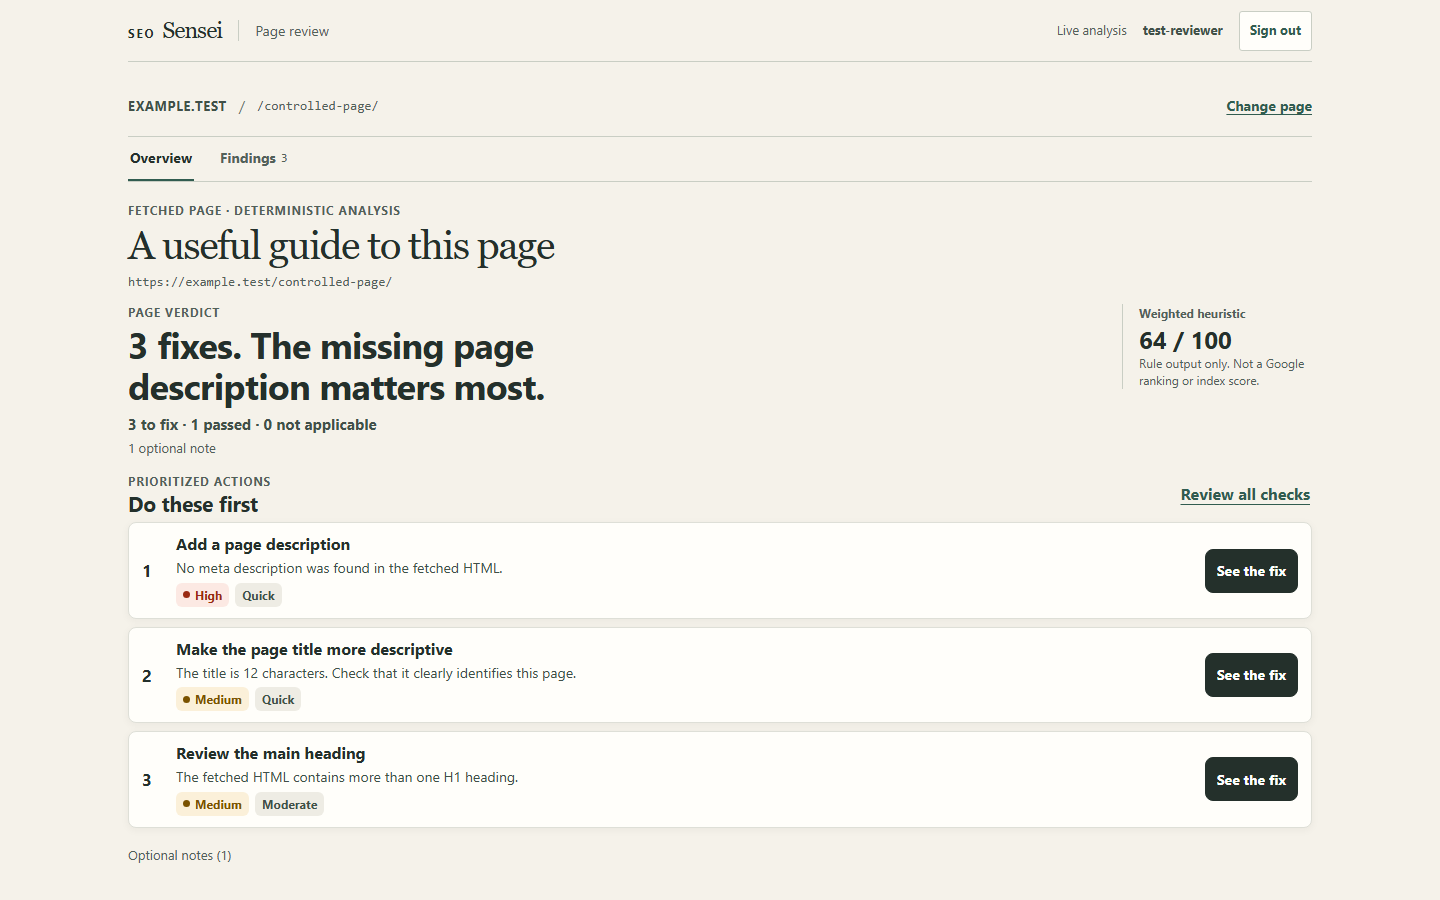
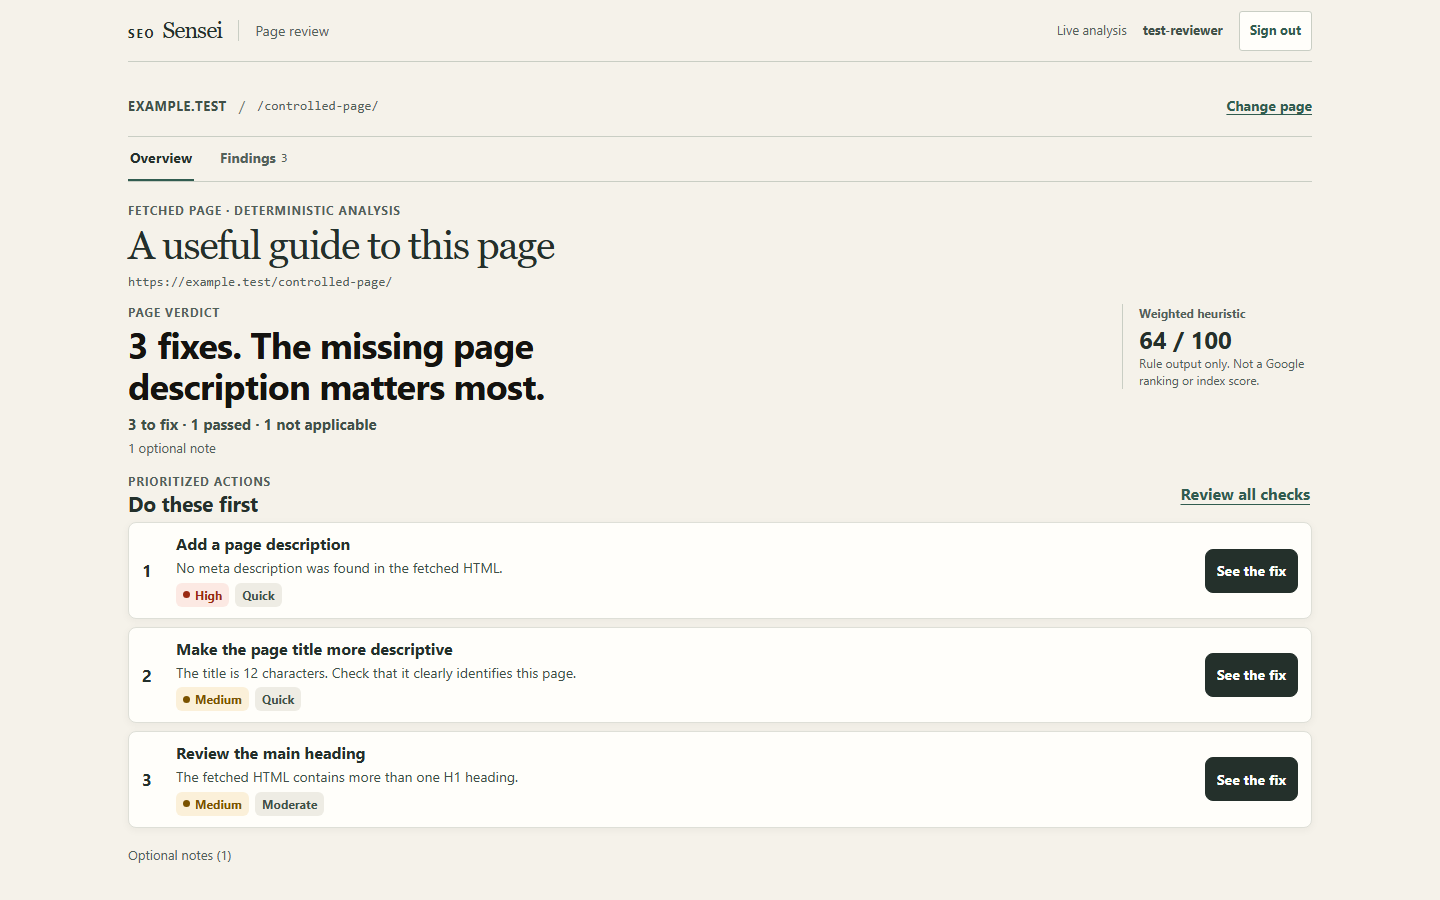
Correct S1-B finding priorities and verdict color

Changed region(s): [[0.0938, 0.3733, 0.375, 0.4667]]

diff --git a/web/e2e/app.spec.ts b/web/e2e/app.spec.ts
@@ -11,7 +11,7 @@ async function installAnonymousSession(page: Page) {
   });
 }
 
-type ReportScenario = "normal" | "high" | "noindex" | "clear";
+type ReportScenario = "normal" | "high" | "noindex" | "two" | "clear";
 
 function resolvedAnalysis(scenario: ReportScenario) {
   const details = scenario === "noindex"
@@ -26,7 +26,11 @@ function resolvedAnalysis(scenario: ReportScenario) {
         ["title", "metadata", "warning", "medium", "quick", "Make the page title more descriptive", "The title is 12 characters. Check that it clearly identifies this page.", "title"],
         ["h1_structure", "headings_content_structure", "warning", "medium", "moderate", "Review the main heading", "The fetched HTML contains more than one H1 heading.", "heading"],
       ]
-      : scenario === "clear" ? [] : [
+      : scenario === "two" ? [
+        ["title", "metadata", "warning", "medium", "quick", "Make the page title more descriptive", "The title is 12 characters. Check that it clearly identifies this page.", "title"],
+        ["internal_links", "links", "warning", "low", "moderate", "Add useful links to related pages", "No internal links were detected in the fetched HTML.", "links"],
+      ]
+        : scenario === "clear" ? [] : [
         ["title", "metadata", "warning", "medium", "quick", "Make the page title more descriptive", "The title is 12 characters. Check that it clearly identifies this page.", "title"],
         ["meta_description", "metadata", "warning", "medium", "quick", "Make the page description more useful", "The description is 24 characters. Check that it accurately summarizes the page.", "description"],
         ["internal_links", "links", "warning", "low", "moderate", "Add useful links to related pages", "No internal links were detected in the fetched HTML.", "links"],
@@ -51,6 +55,13 @@ function resolvedAnalysis(scenario: ReportScenario) {
     evidence: { observed: "The test response returned an HTML document.", value: 200 }, recommendation: "No action is required.",
     fix_snippet: null, snippet_requires_review: false, is_actionable: false, optional_note: null, exclusion_reason: null,
   });
+  checks.push({
+    id: "link_relationships", category: "links", status: "not_applicable", impact: null, effort: null,
+    finding_title: null, finding_reason: null, anatomy_part: null, title: "Link relationship details", points: 0, max_points: 1,
+    evidence: { observed: "No relevant link relationships were available.", value: null },
+    recommendation: "No action is required.", fix_snippet: null, snippet_requires_review: false,
+    is_actionable: false, optional_note: null, exclusion_reason: null,
+  });
   const impactCounts = { blocking: 0, high: 0, medium: 0, low: 0 };
   for (const check of checks.filter((item) => item.is_actionable)) impactCounts[check.impact as keyof typeof impactCounts] += 1;
   const statusCounts = { pass: 0, warning: 0, fail: 0, not_applicable: 0 };
@@ -64,7 +75,7 @@ function resolvedAnalysis(scenario: ReportScenario) {
       status_code: 200, content_type: "text/html", content_length: 1200, bytes_read: 1200,
       redirect_count: 0, elapsed_time: 0.2, x_robots_tag: null,
     },
-    deterministic_score: { version: "1.1", overall_score: scenario === "normal" ? 86 : scenario === "high" ? 64 : 91,
+    deterministic_score: { version: "1.1", overall_score: scenario === "normal" ? 86 : scenario === "high" ? 64 : scenario === "two" ? 79 : 91,
       points_earned: 86, max_points: 100, categories: [] },
     checks,
     metadata: { title: "A useful guide to this page" },
@@ -81,6 +92,7 @@ function resolvedAnalysis(scenario: ReportScenario) {
       prioritized_check_ids: prioritizedIds,
       verdict: scenario === "noindex" ? "This page tells search engines not to index it."
         : scenario === "high" ? "3 fixes. The missing page description matters most."
+          : scenario === "two" ? "2 small fixes."
           : scenario === "clear" ? "Nothing to fix in these checks." : "3 small fixes.",
       exclusions: [{ check_id: "json_ld", status: "warning", reason: "Missing optional JSON-LD is not a confirmed defect." }],
     },
@@ -278,13 +290,14 @@ test("renders v1.1 verdicts, shared counts, priority order, and severity colors 
     await page.getByRole("button", { name: "Analyze page" }).click();
     const expected = next === "noindex" ? "This page tells search engines not to index it."
       : next === "high" ? "3 fixes. The missing page description matters most."
+        : next === "two" ? "2 small fixes."
         : next === "clear" ? "Nothing to fix in these checks." : "3 small fixes.";
     await expect(page.getByTestId("report-verdict")).toHaveText(expected);
   }
 
   async function assertColorPolicy() {
     const verdict = page.getByTestId("report-verdict");
-    expect(await verdict.evaluate((element) => getComputedStyle(element).color)).toBe("rgb(36, 48, 43)");
+    expect(await verdict.evaluate((element) => getComputedStyle(element).color)).toBe("rgb(20, 19, 15)");
     const offenders = await page.locator("body *").evaluateAll((elements) => {
       const isVermilion = (value: string) => {
         const match = value.match(/rgba?\((\d+),\s*(\d+),\s*(\d+)/);
@@ -326,6 +339,9 @@ test("renders v1.1 verdicts, shared counts, priority order, and severity colors 
     await openScenario(next);
     await assertColorPolicy();
     expect(await page.locator(".nav-count").innerText()).toBe("3");
+    if (next === "normal") {
+      await expect(page.getByTestId("summary-count-line")).toHaveText("3 to fix · 1 passed · 1 not applicable");
+    }
     const priorityNumbers = await page.locator("[data-priority-card] .priority-number").allTextContents();
     expect(priorityNumbers).toEqual(["1", "2", "3"]);
     expect(await page.locator("[data-priority-card]").count()).toBe(3);
@@ -378,7 +394,7 @@ test("renders v1.1 verdicts, shared counts, priority order, and severity colors 
   }
 
   await page.getByRole("button", { name: "Review all checks" }).click();
-  await expect(page.getByTestId("findings-count-line")).toHaveText("3 to fix · 1 passed · 0 not applicable");
+  await expect(page.getByTestId("findings-count-line")).toHaveText("3 to fix · 1 passed · 1 not applicable");
   expect(await page.locator(".nav-count").innerText()).toBe("3");
   await expect(page.getByRole("link", { name: /Needs review/ })).toBeVisible();
   const blockingBadge = page.locator(".finding-item .impact-blocking").first();
@@ -394,11 +410,25 @@ test("renders v1.1 verdicts, shared counts, priority order, and severity colors 
   expect(await page.locator(".report-nav a").allTextContents()).toEqual(["Overview", "Findings 3"]);
 
   await page.getByRole("button", { name: "Change page" }).click();
+  scenario = "two";
+  await page.getByLabel("Page address").fill("https://example.test/two/");
+  await page.getByRole("button", { name: "Analyze page" }).click();
+  await expect(page.getByTestId("report-verdict")).toHaveText("2 small fixes.");
+  await expect(page.getByTestId("summary-count-line")).toHaveText("2 to fix · 1 passed · 1 not applicable");
+  expect(await page.locator(".nav-count").innerText()).toBe("2");
+  await page.getByRole("button", { name: "Review all checks" }).click();
+  await expect(page.getByTestId("findings-count-line")).toHaveText("2 to fix · 1 passed · 1 not applicable");
+  expect(await page.locator(".nav-count").innerText()).toBe("2");
+  await expect(page.locator(".findings-optional-notes summary")).toHaveText("Optional notes (1)");
+  expect(await page.locator("[data-finding-id='json_ld']").count()).toBe(0);
+
+  await page.getByRole("button", { name: "Change page" }).click();
   scenario = "clear";
   await page.getByLabel("Page address").fill("https://example.test/clear/");
   await page.getByRole("button", { name: "Analyze page" }).click();
   await expect(page.getByTestId("report-verdict")).toHaveText("Nothing to fix in these checks.");
-  await expect(page.getByTestId("summary-count-line")).toHaveText("0 to fix · 1 passed · 0 not applicable");
+  await assertColorPolicy();
+  await expect(page.getByTestId("summary-count-line")).toHaveText("0 to fix · 1 passed · 1 not applicable");
   expect(await page.locator(".nav-count").innerText()).toBe("0");
   expect(await page.locator("[data-priority-card]").count()).toBe(0);
   expect(externalRequests).toEqual([]);

diff --git a/web/src/styles/layout.css b/web/src/styles/layout.css
@@ -123,7 +123,7 @@
 .summary-identity { margin-bottom: 12px; }
 .summary-verdict-row { display: flex; align-items: start; justify-content: space-between; gap: 24px; }
 .summary-verdict-copy { min-width: 0; }
-.summary-verdict { max-width: 28ch; margin: 3px 0 0; color: var(--ink); font: 700 clamp(28px, 3vw, 36px)/1.12 var(--sans); letter-spacing: -.02em; }
+.summary-verdict { max-width: 28ch; margin: 3px 0 0; color: #14130F; font: 700 clamp(28px, 3vw, 36px)/1.12 var(--sans); letter-spacing: -.02em; }
 .score-note { flex: none; width: 190px; padding-left: var(--space-4); border-left: 1px solid var(--rule); }
 .score-label { display: block; color: var(--muted); font-size: 12px; font-weight: 700; }
 .score-value { display: block; margin-top: 2px; color: var(--ink); font: 700 24px/1.2 var(--sans); }

diff --git a/tests/test_seo_scoring_v11.py b/tests/test_seo_scoring_v11.py
@@ -2,18 +2,23 @@ from __future__ import annotations
 
 from pathlib import Path
 
+from backend.app.config import Settings
 from backend.app.seo.rules import CATEGORY_WEIGHTS, CHECK_POLICIES, Effort, Impact
 from backend.app.seo.engine import analyze_html
 from backend.app.seo.models import CheckStatus, FetchMetadata, SEOAnalysis
 
 
-def analyze(html: str, redirect_count: int = 0):
-    url = "https://example.test/page/"
+def analyze(
+    html: str,
+    redirect_count: int = 0,
+    status_code: int = 200,
+    url: str = "https://example.test/page/",
+):
     size = len(html.encode("utf-8"))
     fetch = FetchMetadata(
         requested_url=url,
         final_url=url,
-        status_code=200,
+        status_code=status_code,
         content_type="text/html",
         content_length=size,
         bytes_read=size,
@@ -362,3 +367,118 @@ def test_observed_evidence_uses_readable_count_grammar() -> None:
         "Images with non-empty alt text: 1/1; empty alt attributes: 0; missing alt attributes: 0."
     )
     assert by_id["json_ld"].finding_reason == "The fetched HTML contains 1 JSON-LD block could not be parsed."
+
+
+def test_final_non_2xx_http_status_is_blocking_without_changing_score_status() -> None:
+    for status_code in (200, 204):
+        result = analyze(all_pass_html(), status_code=status_code)
+        http_check = check(result, "http_status")
+
+        assert http_check.status == CheckStatus.PASS
+        assert http_check.is_actionable is False
+        assert http_check.impact is None
+        assert http_check.points == 5
+
+    for status_code in (301, 302, 307, 404, 500):
+        result = analyze(all_pass_html(), status_code=status_code)
+        http_check = check(result, "http_status")
+
+        assert http_check.status == (CheckStatus.WARNING if status_code < 400 else CheckStatus.FAIL)
+        assert http_check.is_actionable is True
+        assert http_check.impact == Impact.BLOCKING
+        assert http_check.points == (3 if status_code < 400 else 0)
+        assert result.findings_summary.verdict == "The page returned an unsuccessful HTTP response."
+
+    redirected_success = analyze(all_pass_html(), redirect_count=1, status_code=200)
+    assert check(redirected_success, "http_status").is_actionable is False
+    assert check(redirected_success, "redirects").impact == Impact.LOW
+    assert all(item.impact != Impact.BLOCKING for item in redirected_success.checks)
+
+
+def test_redirect_priority_uses_count_without_changing_effort_or_http_status() -> None:
+    counts = sorted({0, 1, 2, 3, Settings().max_redirects, 10})
+    for redirect_count in counts:
+        result = analyze(all_pass_html(), redirect_count=redirect_count)
+        redirect_check = check(result, "redirects")
+
+        if redirect_count == 0:
+            assert redirect_check.status == CheckStatus.PASS
+            assert redirect_check.is_actionable is False
+            assert redirect_check.impact is None
+        else:
+            expected_impact = Impact.HIGH if redirect_count >= 3 else Impact.LOW
+            assert redirect_check.status == CheckStatus.WARNING
+            assert redirect_check.is_actionable is True
+            assert redirect_check.impact == expected_impact
+            assert redirect_check.effort == Effort.QUICK
+        assert check(result, "http_status").is_actionable is False
+
+    long_chain = analyze(all_pass_html(), redirect_count=3)
+    assert long_chain.findings_summary.prioritized_check_ids[0] == "redirects"
+    assert long_chain.findings_summary.verdict == "1 fix. The long redirect chain matters most."
+
+
+def test_visible_word_boundaries_set_review_priority_but_not_score_points() -> None:
+    expected = {
+        0: (CheckStatus.FAIL, Impact.HIGH, 0),
+        1: (CheckStatus.WARNING, Impact.HIGH, 3),
+        99: (CheckStatus.WARNING, Impact.HIGH, 3),
+        100: (CheckStatus.WARNING, Impact.MEDIUM, 4),
+        299: (CheckStatus.WARNING, Impact.MEDIUM, 4),
+        300: (CheckStatus.PASS, None, 5),
+    }
+
+    for word_count, (status, impact, points) in expected.items():
+        words = " ".join("word" for _ in range(word_count))
+        result = analyze(f"<html><body><p>{words}</p></body></html>")
+        text_check = check(result, "visible_text")
+
+        assert result.lexical_signals.visible_word_count == word_count
+        assert text_check.status == status
+        assert text_check.points == points
+        assert text_check.impact == impact
+        assert text_check.is_actionable is (word_count < 300)
+        if 0 < word_count < 300:
+            assert "may be appropriate for its purpose" in text_check.finding_reason
+            assert "rank" not in text_check.finding_reason.lower()
+
+
+def test_priority_order_uses_impact_effort_and_original_check_order() -> None:
+    html = (
+        '<html><head><meta name="robots" content="noindex"><title>T</title>'
+        "</head><body><h2>Section</h2><p>word</p>"
+        '<a href="/related"></a><img src="/chart.svg"></body></html>'
+    )
+    result = analyze(html, redirect_count=1, url="http://example.test/page/")
+
+    assert result.findings_summary.prioritized_check_ids == [
+        "robots_directives",
+        "meta_description",
+        "h1_structure",
+        "https",
+        "visible_text",
+        "title",
+        "anchor_text",
+        "html_lang",
+        "viewport",
+        "canonical",
+        "image_alt",
+        "redirects",
+        "open_graph",
+        "twitter_metadata",
+        "charset",
+    ]
+
+
+def test_multiple_blocking_findings_select_one_stable_plain_verdict() -> None:
+    html = all_pass_html().replace("<head>", '<head><meta name="robots" content="noindex">')
+    first = analyze(html, status_code=404)
+    second = analyze(html, status_code=404)
+
+    assert first.findings_summary.prioritized_check_ids[:3] == [
+        "robots_directives",
+        "http_status",
+        "retrieval_success",
+    ]
+    assert first.findings_summary.verdict == "This page tells search engines not to index it."
+    assert second.findings_summary.verdict == first.findings_summary.verdict

diff --git a/backend/app/seo/rules.py b/backend/app/seo/rules.py
@@ -156,22 +156,14 @@ CHECK_POLICIES: dict[str, FindingPolicy] = {
         "http_status",
         (
             _action(
-                (_FAIL,),
+                (_PROBLEM,),
                 "Check the page response",
-                "The page returned an unsuccessful HTTP response. Review the response and intended destination.",
+                "The final response was HTTP {status_code}, not a 2xx response. Review the response and intended destination.",
                 Impact.BLOCKING,
                 Effort.MODERATE,
                 AnatomyPart.TECHNICAL,
                 verdict_focus="The unsuccessful page response",
                 blocking_verdict="The page returned an unsuccessful HTTP response.",
-            ),
-            _action(
-                (_WARNING,),
-                "Review the redirect response",
-                "The final response was not a 2xx response. Confirm that the URL reaches the intended page.",
-                Impact.MEDIUM,
-                Effort.MODERATE,
-                AnatomyPart.TECHNICAL,
             ),
             _IDLE,
         ),
@@ -211,9 +203,18 @@ CHECK_POLICIES: dict[str, FindingPolicy] = {
         "redirects",
         (
             _action(
+                (_p("redirect_count", "gt", 2), _WARNING),
+                "Shorten the redirect chain",
+                "A longer redirect path was observed before the final page response. Where practical, point links directly to the final URL.",
+                Impact.HIGH,
+                Effort.QUICK,
+                AnatomyPart.TECHNICAL,
+                verdict_focus="The long redirect chain",
+            ),
+            _action(
                 (_WARNING,),
                 "Review the redirect path",
-                "A redirect was observed before the page response. Point links directly to the intended final URL where practical.",
+                "The URL passed through a redirect before the final response. Where practical, point links directly to the final URL.",
                 Impact.LOW,
                 Effort.QUICK,
                 AnatomyPart.TECHNICAL,
@@ -410,9 +411,18 @@ CHECK_POLICIES: dict[str, FindingPolicy] = {
                 verdict_focus="The page has no visible text",
             ),
             _action(
+                (_p("visible_word_count", "gt", 0), _p("visible_word_count", "lt", VISIBLE_WORD_WARNING), _WARNING),
+                "Check whether this short page needs more context",
+                "A short page may be appropriate for its purpose. Check whether visitors get the context they need.",
+                Impact.HIGH,
+                Effort.MODERATE,
+                AnatomyPart.CONTENT,
+                verdict_focus="The very short page content",
+            ),
+            _action(
                 (_WARNING,),
                 "Check that the page answers its visitors' main question",
-                "The fetched HTML contains about {visible_word_count} visible words. Word count alone does not establish content quality.",
+                "The fetched HTML contains about {visible_word_count} visible words. A short page may be appropriate for its purpose; check whether it gives visitors the context they need.",
                 Impact.MEDIUM,
                 Effort.MODERATE,
                 AnatomyPart.CONTENT,

diff --git a/backend/app/seo/findings.py b/backend/app/seo/findings.py
@@ -32,6 +32,7 @@ def _facts(analysis: SEOAnalysis, check: SEOCheck) -> dict[str, Any]:
     return {
         "status": check.status.value,
         "status_code": analysis.fetch.status_code,
+        "redirect_count": analysis.fetch.redirect_count,
         "robots_noindex": "noindex" in analysis.metadata.robots_directives,
         "title_missing": not bool(analysis.metadata.title.strip()),
         "title_length": title_length,

diff --git a/docs/seo-scoring.md b/docs/seo-scoring.md
@@ -28,15 +28,17 @@ Formally, for category `c`, `category_c = round2(weight_c * (sum(points_c) / sum
 
 - Category weights, existing title/description/visible-text thresholds, and all 23 stable check IDs remain unchanged.
 - Finding impact, effort, action-first title, reason, safe snippet, review requirement, actionability, anatomy mapping, exclusions, and priority order are resolved by the single inspectable ruleset in `backend/app/seo/rules.py`. These presentation fields do not change check points or the score.
+- The S1-B R1 correction refines those impact classifications without changing score calculation, check statuses, or check points. A final HTTP response outside `200..299` is blocking; a final `2xx` remains non-actionable for the HTTP-status check even if SafeFetcher followed redirects to reach it. A redirect warning is low impact for one or two observed redirects and high impact for three or more. The default configured redirect maximum is three, with configuration permitting up to ten.
+- Visible-text finding priority is separate from its scoring thresholds. Zero words remains a failed check with 0/5 points and high impact. One through 99 words remains a warning with 3/5 points and high impact. 100 through 299 words remains a warning with 4/5 points and medium impact. At 300 or more words the check remains pass with 5/5 points and produces no visible-text finding.
 - The response now includes a resolved `findings_summary` with raw status totals, actionable count, optional-note count, impact and effort totals, priority IDs, and one plain-language verdict. Existing response fields and status values remain present.
 - An image with an empty `alt` attribute is not treated as missing: HTML alone cannot establish whether an empty value is appropriate for that image. Version 1.1 separately reports images with a present non-empty value, a present empty value, and no `alt` attribute. The old `with_alt` and `alt_coverage_percent` fields retain their compatible meaning: an `alt` attribute is present, whether empty or not. When every image has an `alt` attribute but one or more values are empty, `image_alt` changes from the version 1.0 warning and 7/10 points to a version 1.1 pass and 10/10 points. This can raise the overall score by up to three points; it does not claim that the analyzer knows whether any alt text is useful. An optional note explains the uncertainty.
 - A missing optional JSON-LD block remains a non-actionable note, not a definite defect. Malformed JSON-LD is still actionable when the existing analyzer reports that condition.
 
 ## Checks and thresholds
 
-- Technical/indexability: bounded HTML retrieval, HTTP status, HTTPS, supported HTML content type, redirect count, observed fetch duration, and robots/X-Robots directives.
+- Technical/indexability: bounded HTML retrieval, HTTP status, HTTPS, supported HTML content type, redirect count, observed fetch duration, and robots/X-Robots directives. The HTTP-status score/status rule is unchanged: `2xx` passes, `3xx` warns, and `4xx/5xx` fails. Impact policy treats any final non-`2xx` response as blocking. A successful final `2xx` reached after a redirect is not blocking; any redirect-count finding is classified separately.
 - Metadata: title presence and length, description presence and length, and canonical URL structure. Existing warning thresholds remain below 30 or above 60 title characters and below 50 or above 160 description characters. These are analyzer heuristics, not search-result display guarantees.
-- Headings/content: H1 structure, heading-level jumps, and approximate visible-word count. Under 100 words is a stronger warning; under 300 remains a caution, not a content-quality verdict.
+- Headings/content: H1 structure, heading-level jumps, and approximate visible-word count. The existing scoring boundaries remain `0`, `1..99`, `100..299`, and `300+` words, with the score/status behavior described above. These are bounded review heuristics, not universal content requirements. A short page may be appropriate for its purpose; the finding asks whether visitors get the context they need, and does not recommend a target word count.
 - Links: internal-link presence, empty/placeholder anchor text, and link relationship attributes. `nofollow`, `sponsored`, or `ugc` alone are not treated as an actionable problem.
 - Images: image count, legacy attribute-presence coverage, empty-attribute count, and missing-attribute count. Only missing `alt` attributes can create an image action. A human must determine whether an image conveys information; no decorative intent is inferred.
 - Structured data: JSON-LD presence and parseability. This analyzer does not determine rich-result eligibility.
@@ -48,6 +50,8 @@ Formally, for category `c`, `category_c = round2(weight_c * (sum(points_c) / sum
 The same deterministic resolver derives raw passes, warnings, failures, and not-applicable checks; actionable findings; optional notes and explicit exclusions; impact/effort totals; the prioritized check IDs; and the verdict. Actionable findings are ordered by impact (`blocking`, `high`, `medium`, `low`), then effort (`quick`, `moderate`, `larger_job`), then original analyzer order. A warning or failure that is not actionable has an explicit exclusion reason.
 
 The headline uses these rules: a blocking condition names the observed condition; otherwise any high-impact finding leads with the total actionable count and top high-priority issue; medium/low-only results say how many small fixes remain; zero actionable findings use `Nothing to fix in these checks.` This verdict does not claim Google has indexed, excluded, ranked, or processed a page.
+
+The R1 boundary tests use final HTTP statuses `200`, `204`, `301`, `302`, `307`, `404`, and `500`, plus one redirect ending in `200`. Redirect counts `0`, `1`, `2`, `3`, the default configured maximum, and the metadata-supported maximum of `10` are tested. Visible-word inputs are generated from HTML and checked at exact counts `0`, `1`, `99`, `100`, `299`, and `300`. These priority changes do not alter score points or existing check statuses; the legacy score comparisons above therefore remain applicable.
 
 The analyzer consumes bounded HTML and fetch metadata provided by the existing SafeFetcher. It performs no additional network or AI calls. Identical HTML, final URL, and fetch metadata produce identical scores and findings.
 
